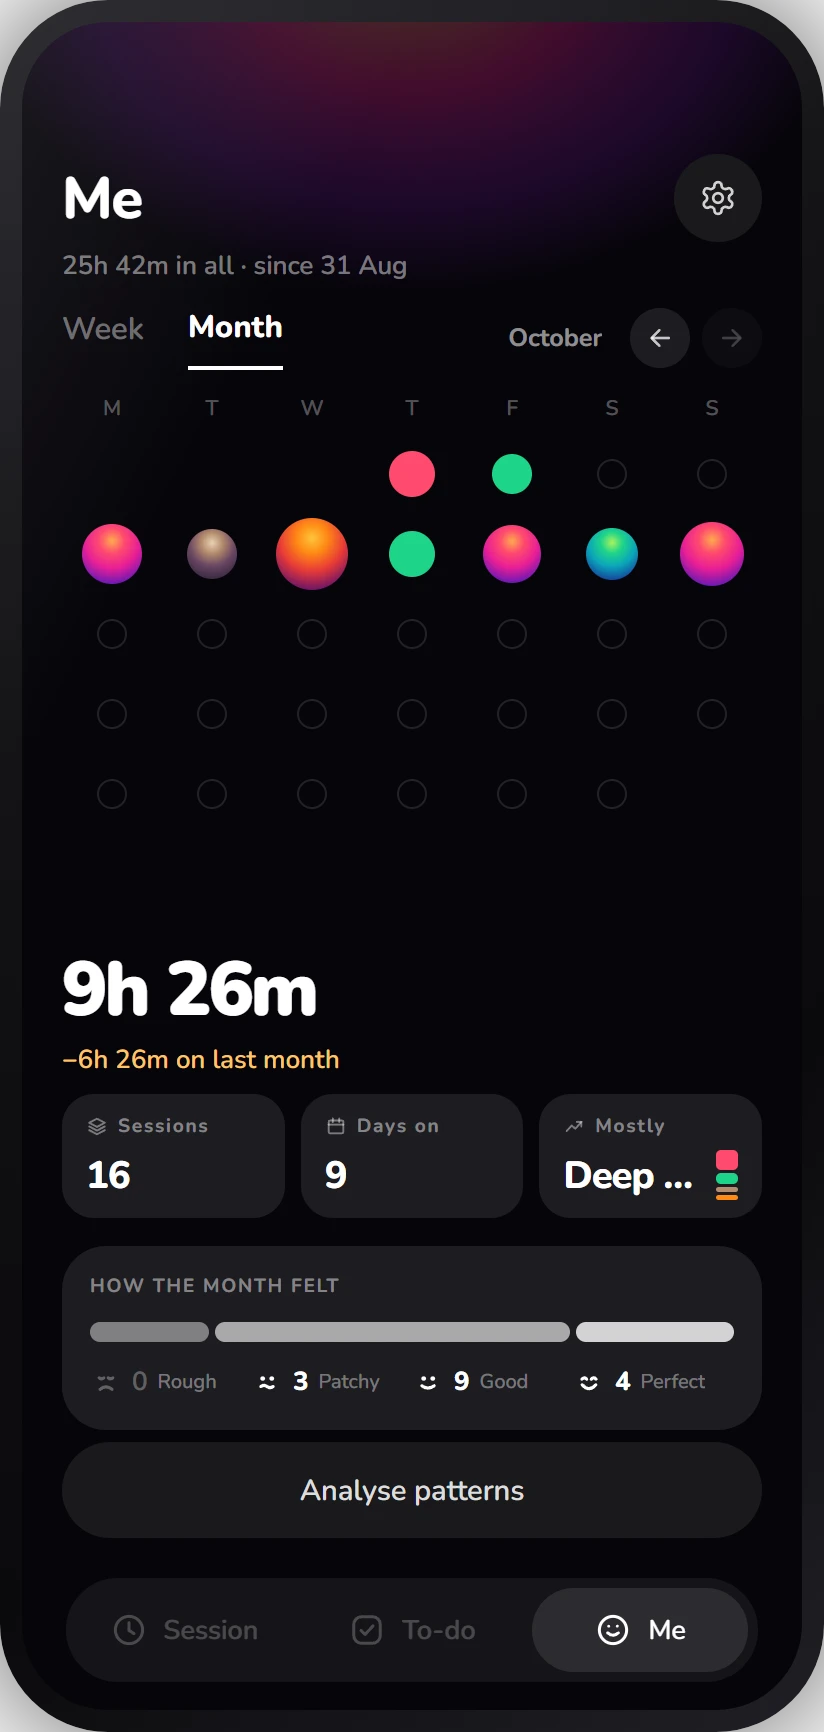
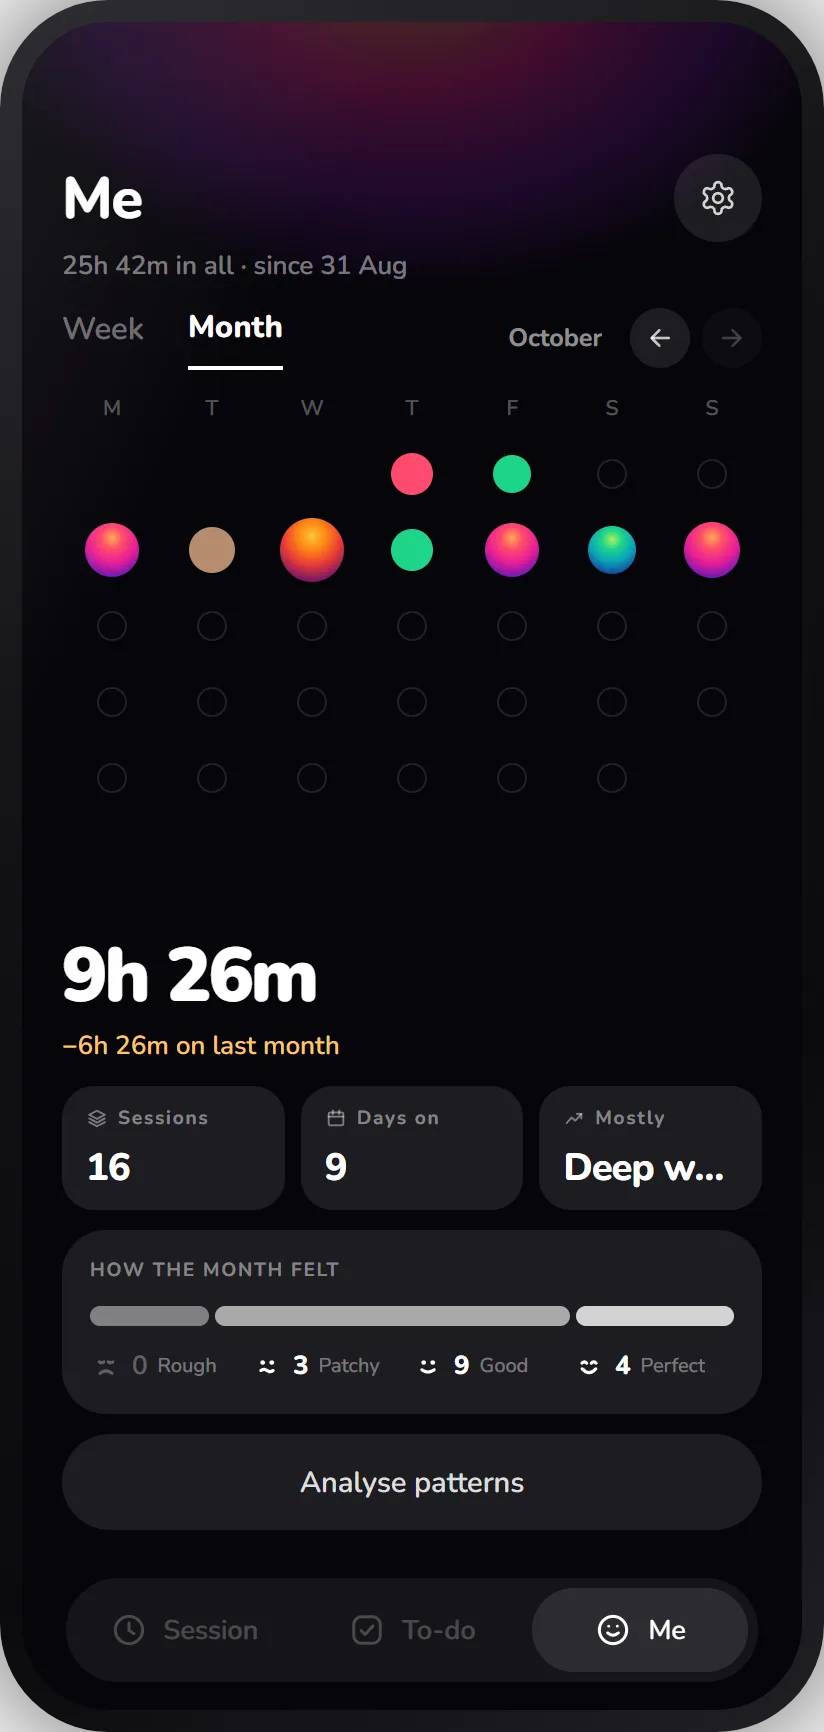
Time: dark system boards, updated Me screens

diff --git a/src/pages/cases/TimeCase.tsx b/src/pages/cases/TimeCase.tsx
@@ -179,10 +179,10 @@ export function TimeCase() {
           </Reveal>
           <div className={styles.boards}>
             <Reveal className={styles.board} i={2}>
-              <img src={`${W}/process/the-system.webp`} alt="The eleven category palettes and Nunito in five weights." loading="lazy" />
+              <img src={`${W}/process/the-system-dark.webp`} alt="The eleven category palettes and Nunito in five weights." loading="lazy" />
             </Reveal>
             <Reveal className={styles.board} i={3}>
-              <img src={`${W}/process/category-colour.webp`} alt="The week view before and after: flat hues replaced by the full gradient." loading="lazy" />
+              <img src={`${W}/process/category-colour-dark.webp`} alt="The week view before and after: flat hues replaced by the full gradient." loading="lazy" />
             </Reveal>
           </div>
         </section>

diff --git a/src/pages/cases/TimeCase.module.css b/src/pages/cases/TimeCase.module.css
@@ -302,7 +302,8 @@
 .flowStep figcaption { font-size: 14px; color: var(--t-ink); display: flex; gap: 10px; }
 .flowStep figcaption span { font-family: var(--font-mono); font-size: 12px; color: var(--t-muted); padding-top: 2px; }
 
-/* The system boards: light artboards, framed on the dark page, side by side. */
+/* The system boards: the dark renders from the Time repo (their ground is
+   #0c0c0e), framed by a hairline on the page, side by side. */
 .boards {
   margin-top: clamp(32px, 3.4vw, 52px);
   display: grid;
@@ -311,6 +312,7 @@
   align-items: start;
 }
 .board {
+  background: #0c0c0e;
   border-radius: 22px;
   overflow: hidden;
   border: 1px solid var(--t-line);
